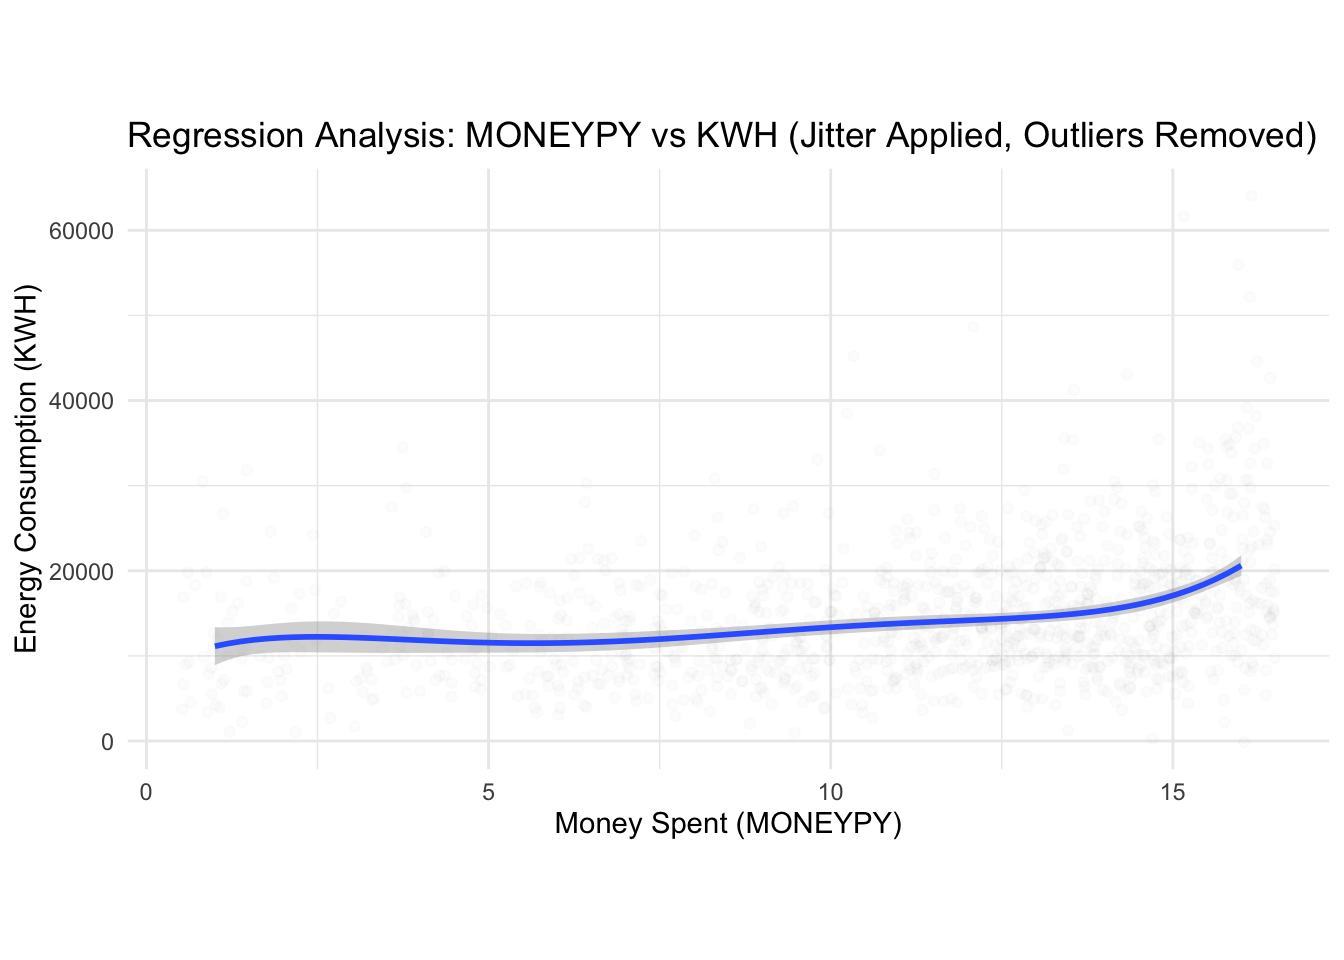
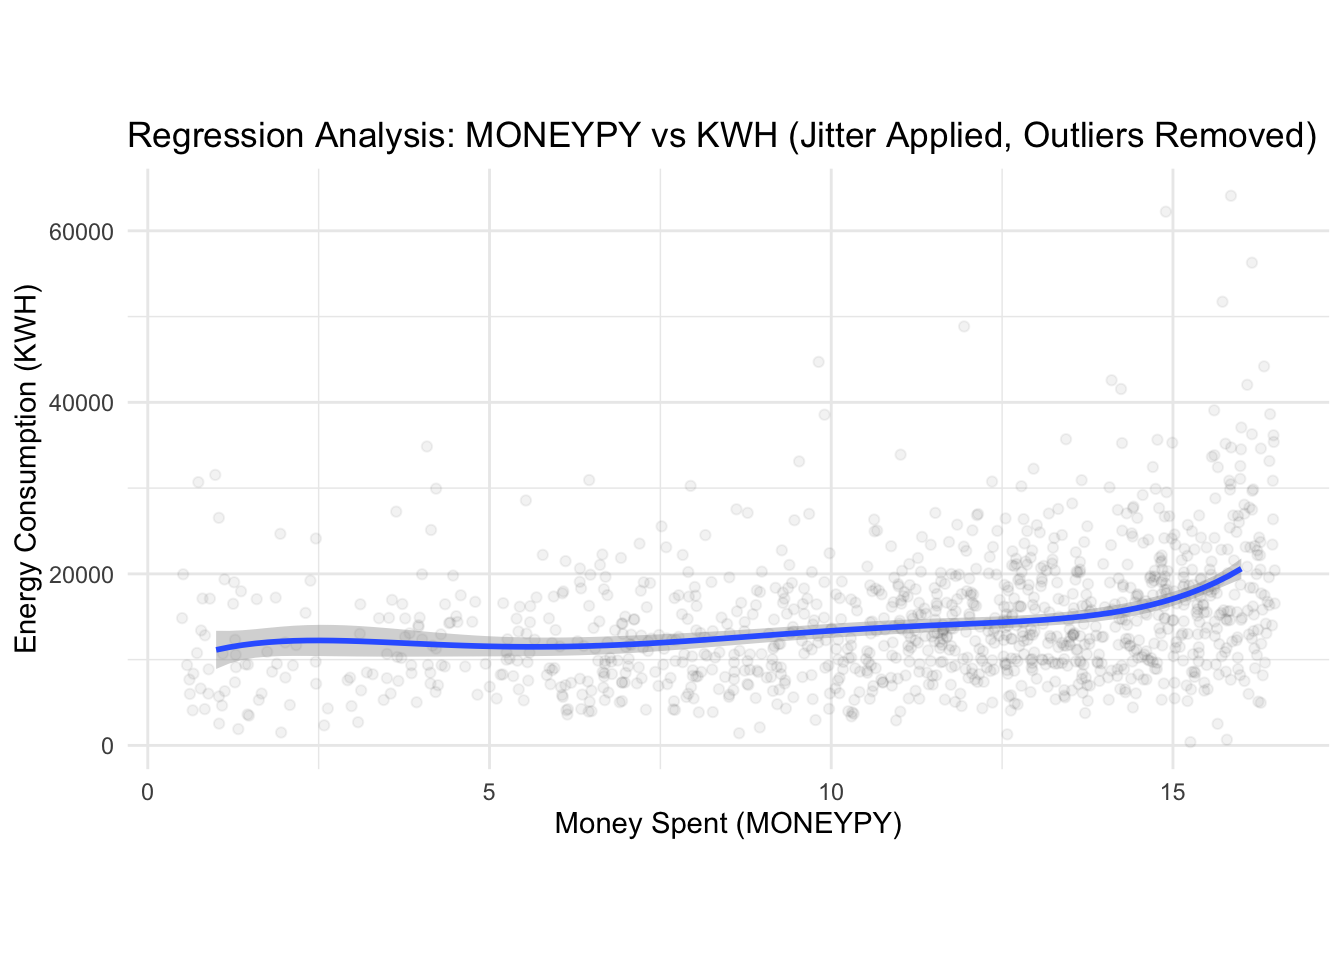
FINALL

diff --git a/docs/results.html b/docs/results.html
@@ -542,7 +542,7 @@ Attaching package: 'maps'</code></pre>
 <details class="code-fold">
 <summary>Code</summary>
 <div class="sourceCode cell-code" id="cb18"><pre class="sourceCode r code-with-copy"><code class="sourceCode r"><span id="cb18-1"><a href="#cb18-1" aria-hidden="true" tabindex="-1"></a><span class="fu">ggplot</span>(filtered_data, <span class="fu">aes</span>(<span class="at">x =</span> MONEYPY, <span class="at">y =</span> KWH)) <span class="sc">+</span></span>
-<span id="cb18-2"><a href="#cb18-2" aria-hidden="true" tabindex="-1"></a>  <span class="fu">geom_jitter</span>(<span class="at">alpha =</span> <span class="fl">0.01</span>, <span class="at">width =</span> <span class="fl">0.5</span>, <span class="at">height =</span> <span class="dv">500</span>) <span class="sc">+</span> </span>
+<span id="cb18-2"><a href="#cb18-2" aria-hidden="true" tabindex="-1"></a>  <span class="fu">geom_jitter</span>(<span class="at">alpha =</span> <span class="fl">0.05</span>, <span class="at">width =</span> <span class="fl">0.5</span>, <span class="at">height =</span> <span class="dv">500</span>) <span class="sc">+</span> </span>
 <span id="cb18-3"><a href="#cb18-3" aria-hidden="true" tabindex="-1"></a>  <span class="fu">geom_smooth</span>(<span class="at">method =</span> <span class="st">"lm"</span>, <span class="at">formula =</span> y <span class="sc">~</span> <span class="fu">poly</span>(x, <span class="dv">5</span>)) <span class="sc">+</span></span>
 <span id="cb18-4"><a href="#cb18-4" aria-hidden="true" tabindex="-1"></a>  <span class="fu">labs</span>(<span class="at">title =</span> <span class="st">"Regression Analysis: MONEYPY vs KWH (Jitter Applied, Outliers Removed)"</span>,</span>
 <span id="cb18-5"><a href="#cb18-5" aria-hidden="true" tabindex="-1"></a>       <span class="at">x =</span> <span class="st">"Money Spent (MONEYPY)"</span>,</span>
@@ -661,7 +661,7 @@ Attaching package: 'maps'</code></pre>
 <div class="cell-output-display">
 <div>
 <figure class="figure">
-<p><img src="results_files/figure-html/alluviam-1.png" class="img-fluid figure-img" width="672"></p>
+<p><img src="results_files/figure-html/alluvial-1.png" class="img-fluid figure-img" width="672"></p>
 </figure>
 </div>
 </div>
